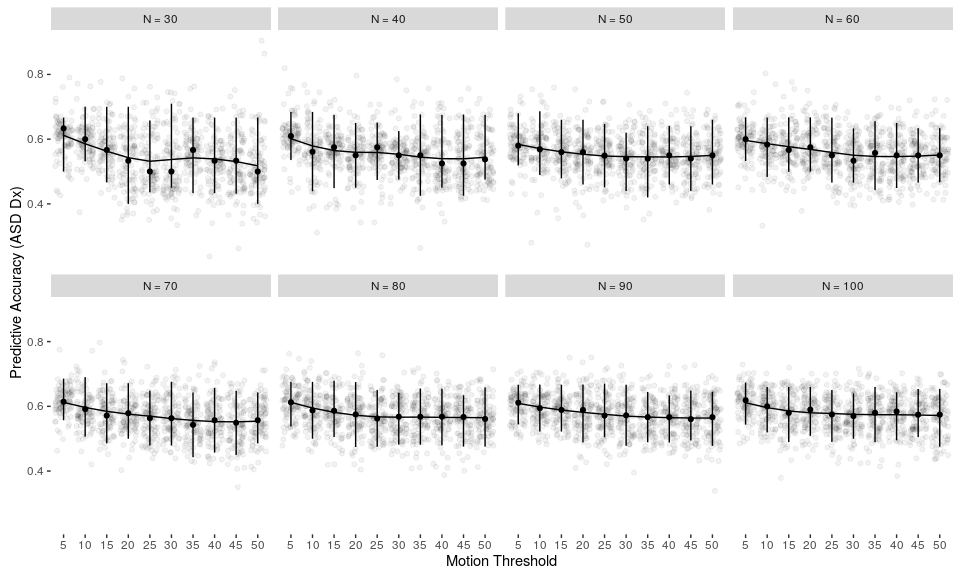
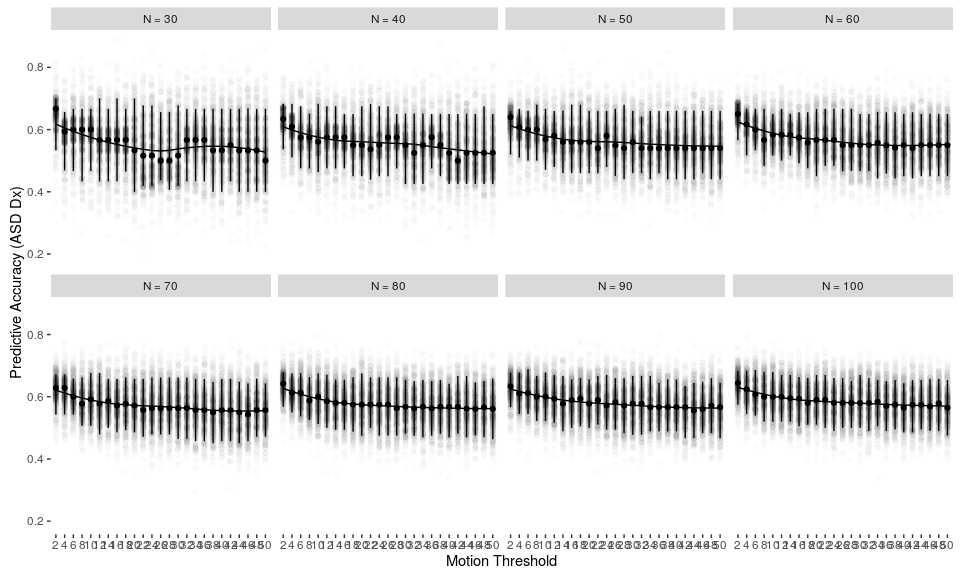
updated with more runs

diff --git a/Motion/plot_svc_motion_comparison.md b/Motion/plot_svc_motion_comparison.md
@@ -3,24 +3,29 @@
     library(tidyr)
     library(ggplot2)
 
-    cvFiles <- data.table(file=dir('./cv_output/', pattern='*TestAcc.csv', full.names = TRUE)) 
-    cvFiles <- cvFiles[, TestAcc:=fread(file), by=file]
-    cvFiles <- cvFiles[, c('cvMethod', 'classifier', 'mt', 'n', 'i'):=tstrsplit(tstrsplit(file, '/')[[4]], '_(mt|n|i)*')]
+    #Remember to extract the files from TestAcc.tar.gz first
+    cvFiles <- dir('./cv_output/sss_svc_run2', pattern='*_TestAcc.csv', full.names = TRUE) 
+    lst <- lapply(cvFiles, fread)
+    cvData <- rbindlist(lst)
+    cvData[,'file'] <- cvFiles
+    cvData <- cvData[, c('cvMethod', 'classifier', 'mt', 'n', 'i'):=tstrsplit(tstrsplit(file, '/')[[4]], '_(mt|n|i)*')]
 
-    ## Warning in `[.data.table`(cvFiles, , `:=`(c("cvMethod", "classifier",
+    ## Warning in `[.data.table`(cvData, , `:=`(c("cvMethod", "classifier",
     ## "mt", : Supplied 5 columns to be assigned a list (length 6) of values (1
     ## unused)
 
-    cvFiles <- cvFiles[, mt:=factor(mt, levels=seq(5, 50, 5))]
-    cvFiles <- cvFiles[, n:=factor(n, levels=seq(30, 100, 10))]
+    setnames(cvData, 'V1', 'TestAcc')
 
-    summaryCV <- cvFiles[, as.list(quantile(TestAcc, probs=c(.05, .5, .95))), keyby=c('mt', 'n')]
+    cvData <- cvData[, mt:=factor(mt, levels=seq(2, 50, 2))]
+    cvData <- cvData[, n:=factor(n, levels=seq(30, 100, 10))]
 
-    N_labels <- paste0('N = ', levels(cvFiles$n))
-    names(N_labels) <- levels(cvFiles$n)
+    summaryCV <- cvData[, as.list(quantile(TestAcc, probs=c(.05, .5, .95))), keyby=c('mt', 'n')]
 
-    ggplot(cvFiles, aes(x=mt, y=TestAcc))+
-        geom_point(alpha=.05, position=position_jitter(w=1, h=.1))+
+    N_labels <- paste0('N = ', levels(cvData$n))
+    names(N_labels) <- levels(cvData$n)
+
+    ggplot(cvData, aes(x=mt, y=TestAcc))+
+        geom_point(alpha=.01, position=position_jitter(w=.2, h=.1))+
         geom_line(aes(group=n), stat='smooth', method='loess', 
               position=position_dodge(w=1))+
         geom_point(data=summaryCV, aes(x=mt, y=`50%`),
@@ -33,14 +38,16 @@
 
 ![](plot_svc_motion_comparison_files/figure-markdown_strict/unnamed-chunk-2-1.png)<!-- -->
 
-    ggplot(cvFiles, aes(x=n, y=TestAcc, group=mt, color=mt))+
-        geom_point(alpha=.025, position=position_jitter(width=.5, height=.1))+
+    ggplot(cvData, aes(x=n, y=TestAcc, group=mt, color=mt))+
+        geom_point(alpha=.0, position=position_jitter(width=.5, height=.1))+
         geom_errorbar(data=summaryCV, aes(x=n, y=NULL, ymin=`5%`, ymax=`95%`),
-               width=.1, alpha=.25)+
-        geom_point(data=summaryCV, aes(x=n, y=`50%`))+
-        geom_line(aes(group=mt, color=mt), stat='smooth', method='loess', alpha=.75)+ 
+               width=2, alpha=.5, position=position_dodge(w=0))+
+        geom_point(data=summaryCV, aes(x=n, y=`50%`), position=position_dodge(w=0))+
+        geom_line(aes(group=mt, color=mt), stat='smooth', method='loess', alpha=.5)+ 
         theme(panel.background=element_rect(fill='white'))+
         labs(x='Sample Size', y='Predictive Accuracy (ASD Dx)',
              color='Motion\nThreshold')
+
+    ## Warning: position_dodge requires non-overlapping x intervals
 
 ![](plot_svc_motion_comparison_files/figure-markdown_strict/unnamed-chunk-3-1.png)<!-- -->
